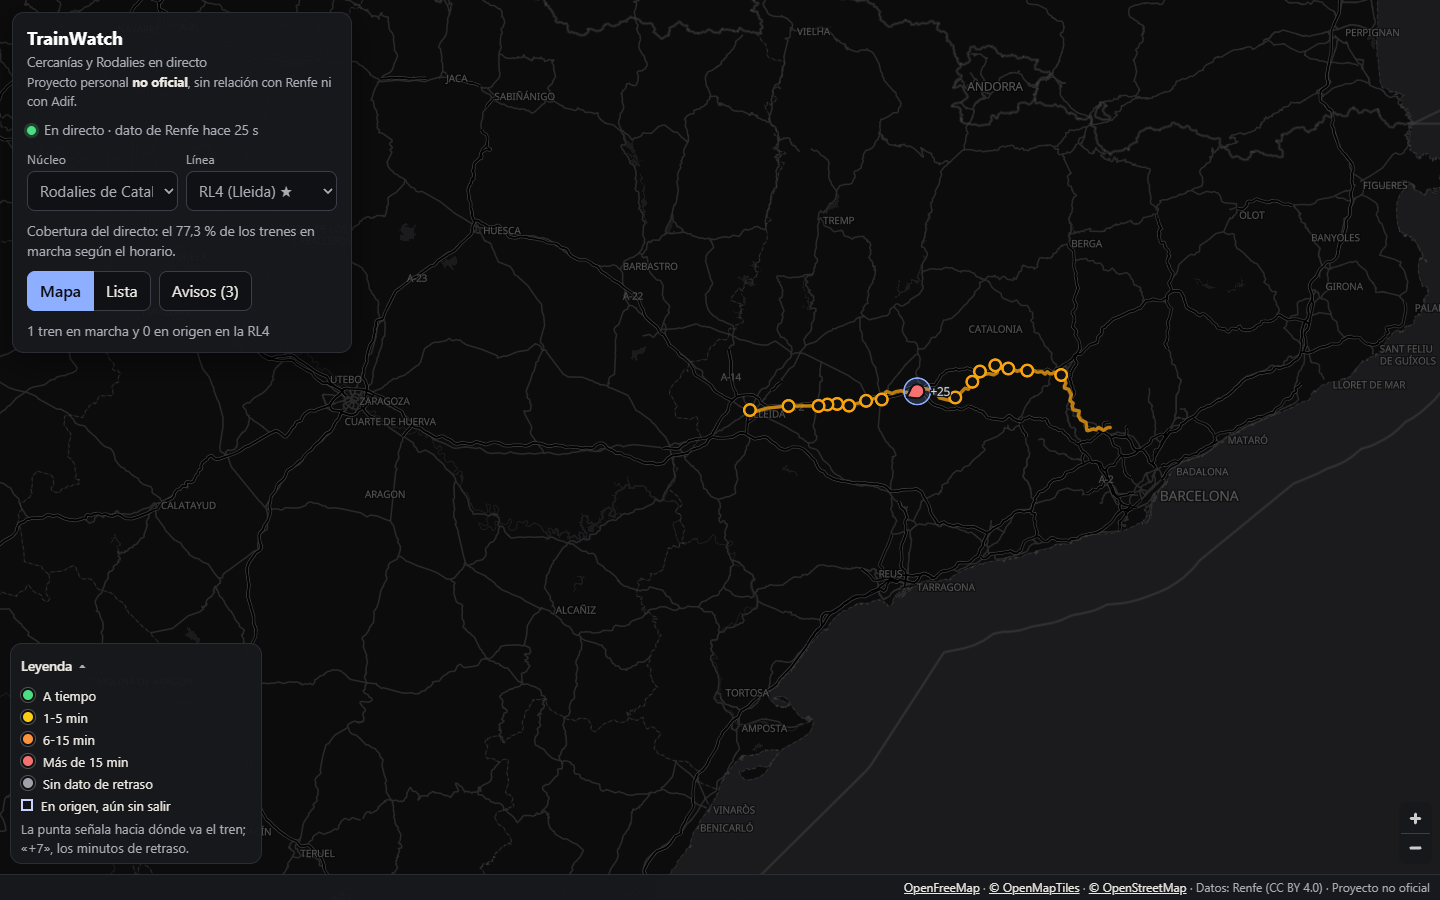
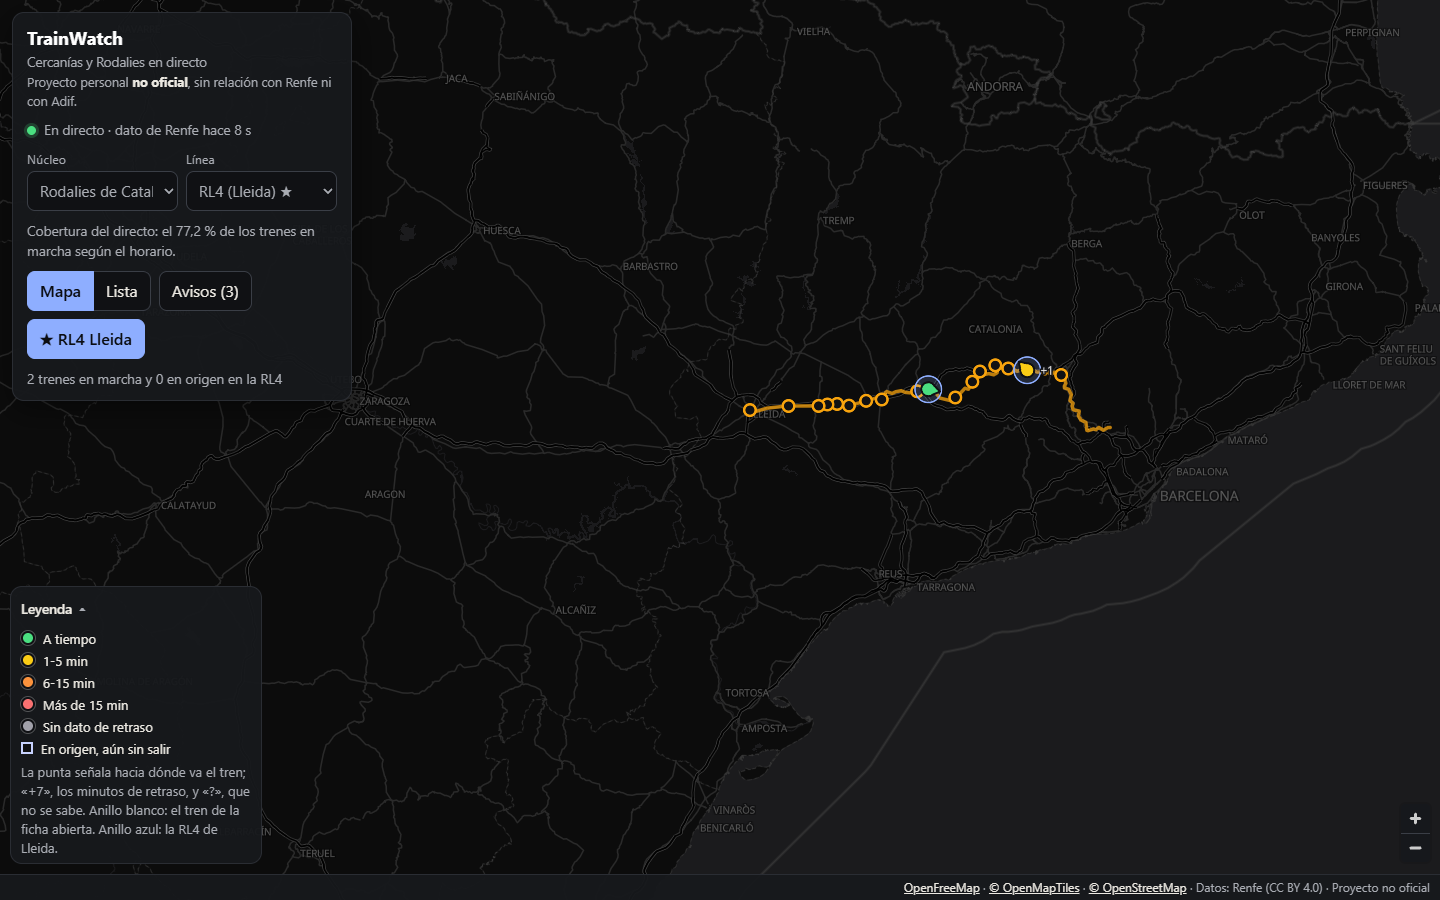
Quita de la CSP lo que no hace falta, ajusta la hoja del móvil, añade las pruebas que faltaban y renueva las capturas

diff --git a/frontend/src/componentes/textos.test.ts b/frontend/src/componentes/textos.test.ts
@@ -1,0 +1,54 @@
+import { describe, expect, it } from 'vitest';
+import type { Directo } from '../directo/useDirecto';
+import { anuncio, textoEstadoDatos } from './textos';
+
+const T0 = 1_000_000;
+
+function directo(cambios: Partial<Directo> = {}): Directo {
+  return {
+    trenes: new Map(),
+    recibido: T0,
+    antiguedadS: 10,
+    antiguedadEn: T0,
+    conexion: { tipo: 'abierta' },
+    reintentoHasta: null,
+    cargado: true,
+    ...cambios,
+  };
+}
+
+describe('estado de los datos', () => {
+  it('si no llega nada, la antigüedad crece con el reloj y a los 2 min avisa', () => {
+    const d = directo();
+    expect(textoEstadoDatos(d, T0)).toEqual({ texto: 'En directo · dato de Renfe hace 10 s', aviso: false });
+    expect(textoEstadoDatos(d, T0 + 100_000)).toEqual({ texto: 'En directo · dato de Renfe hace 1 min', aviso: false });
+    // 10 s + 3 min sin ningún evento: el directo está parado.
+    expect(textoEstadoDatos(d, T0 + 180_000)).toEqual({
+      texto: 'Datos de hace 3 min: el directo está parado',
+      aviso: true,
+    });
+    expect(anuncio(d, T0 + 180_000)).toBe('Los datos en directo están parados.');
+  });
+
+  it('cuenta hacia atrás hasta el próximo intento', () => {
+    const d = directo({
+      conexion: { tipo: 'reintentando', intento: 3, esperaMs: 8000 },
+      reintentoHasta: T0 + 8000,
+    });
+    expect(textoEstadoDatos(d, T0).texto).toBe('Sin conexión con el directo: se reintenta en 8 s. Datos de hace 10 s');
+    expect(textoEstadoDatos(d, T0 + 5500).texto).toMatch(/^Sin conexión con el directo: se reintenta en 3 s/);
+    expect(anuncio(d, T0)).toBe('Sin conexión con el directo.');
+  });
+
+  it('anuncia «Reconectando» y no «En directo» mientras se vuelve a conectar', () => {
+    const d = directo({ conexion: { tipo: 'conectando' } });
+    expect(anuncio(d, T0)).toBe('Reconectando con el directo.');
+    expect(textoEstadoDatos(d, T0).texto).toBe('Reconectando… · dato de Renfe hace 10 s');
+  });
+
+  it('antes de la primera instantánea dice que está conectando', () => {
+    const d = directo({ cargado: false, antiguedadS: null, antiguedadEn: null, conexion: { tipo: 'conectando' } });
+    expect(textoEstadoDatos(d, T0)).toEqual({ texto: 'Conectando con el directo…', aviso: false });
+    expect(anuncio(d, T0)).toBe('Conectando con el directo.');
+  });
+});

diff --git a/frontend/src/App.test.tsx b/frontend/src/App.test.tsx
@@ -157,6 +157,41 @@ describe('App', () => {
     expect(within(hoja).getAllByRole('listitem')).toHaveLength(3);
   });
 
+  it('cambiar de línea con los avisos abiertos cambia su título sin quitarle el foco al selector', async () => {
+    prepararApi();
+    await conDirecto();
+    fireEvent.click(await screen.findByRole('button', { name: 'Avisos (3)' }));
+    await screen.findByRole('complementary', { name: 'Avisos de Rodalies de Catalunya' });
+    const selector = screen.getByRole('combobox', { name: 'Línea' });
+    selector.focus();
+    fireEvent.change(selector, { target: { value: 'R13' } });
+    expect(await screen.findByRole('complementary', { name: 'Avisos de la R13' })).toBeInTheDocument();
+    expect(selector).toHaveFocus();
+  });
+
+  it('el botón de la RL4 se queda (pulsado) y no pierde el foco', async () => {
+    prepararApi();
+    await conDirecto();
+    const boton = screen.getByRole('button', { name: /RL4 Lleida/ });
+    expect(boton).toHaveAttribute('aria-pressed', 'false');
+    boton.focus();
+    fireEvent.click(boton);
+    expect(screen.getByRole('combobox', { name: 'Línea' })).toHaveValue('RL4');
+    expect(boton).toHaveAttribute('aria-pressed', 'true');
+    expect(boton).toHaveFocus();
+    fireEvent.click(boton);
+    expect(screen.getByRole('combobox', { name: 'Línea' })).toHaveValue('');
+  });
+
+  it('un núcleo de la URL que no existe vuelve a Rodalies', async () => {
+    prepararApi();
+    window.history.replaceState(null, '', '/?nucleo=999');
+    render(<App />);
+    await screen.findByRole('option', { name: 'Madrid' });
+    expect(screen.getByRole('combobox', { name: 'Núcleo' })).toHaveValue('51');
+    await waitFor(() => expect(FuenteFalsa.ultima().url).toBe('/api/directo?nucleo=51'));
+  });
+
   it('avisa con «datos de hace X min» si el directo se para', async () => {
     prepararApi();
     await conDirecto();

diff --git a/frontend/src/mapa/Mapa.tsx b/frontend/src/mapa/Mapa.tsx
@@ -31,6 +31,12 @@ const ESTILO_RESERVA = {
   layers: [{ id: 'fondo', type: 'background' as const, paint: { 'background-color': '#16181c' } }],
 };
 
+/** Cuánto del mapa tapa la hoja inferior del móvil (el 50 % de la altura de la ventana, desde abajo). */
+function hojaMovil(contenedor: HTMLElement): number {
+  const abajo = contenedor.getBoundingClientRect().bottom;
+  return Math.round(window.innerHeight * 0.5 - (window.innerHeight - abajo));
+}
+
 export interface PropsMapa {
   nucleo: Nucleo | null;
   trenes: readonly TrenMapa[];
@@ -163,7 +169,10 @@ export default function Mapa(props: PropsMapa) {
     m.easeTo({
       center: [tren.lon, tren.lat],
       zoom: Math.max(m.getZoom(), 11),
-      padding: ancho ? { top: 20, bottom: 40, left: 360, right: 410 } : { top: 20, bottom: 300, left: 20, right: 20 },
+      // En el móvil, la hoja ocupa la mitad de abajo de la pantalla (App.css): el tren va justo encima.
+      padding: ancho
+        ? { top: 20, bottom: 40, left: 360, right: 410 }
+        : { top: 20, bottom: Math.max(20, hojaMovil(m.getContainer()) + 20), left: 20, right: 20 },
       animate: !ultimas.current.reducirMovimiento,
       duration: 700,
     });

diff --git a/frontend/src/App.css b/frontend/src/App.css
@@ -539,13 +539,13 @@
     left: 0;
     right: 0;
     bottom: 0;
-    max-height: 62vh;
+    max-height: 50vh;
     border-radius: 16px 16px 0 0;
     box-shadow: 0 -8px 30px rgba(0, 0, 0, 0.5);
   }
   /* Que se pueda desplazar la lista por encima de la hoja. */
   .app--con-hoja .lista {
-    padding-bottom: 64vh;
+    padding-bottom: 52vh;
   }
 }
 

diff --git a/docs/informes/fase-5.md b/docs/informes/fase-5.md
@@ -1,6 +1,6 @@
 # Fase 5 · El mapa: informe
 
-**Fecha:** 20-11-2026. **Rama:** `fase-5-mapa` (sin fusionar: se cortó por límite de uso). **Resultado:** hecha salvo la fusión, la línea del diario y la repetición del e2e y las capturas tras las últimas correcciones.
+**Fecha:** 20 y 21-11-2026. **Rama:** `fase-5-mapa`. **Resultado:** hecha. El mapa enseña los trenes de cada núcleo moviéndose en directo, con su color por retraso, fichas, filtros y vista de lista; 48 pruebas de Vitest y 14 e2e en verde; probado contra la API de producción sin errores ni violaciones de la CSP. **Lighthouse en móvil no llega a 90 en rendimiento** (75 con la simulación por defecto, 80 con la ralentización de DevTools); las otras tres categorías, 100.
 
 ## 1. Especificación
 
@@ -11,26 +11,28 @@ Punto de partida: `docs/prompts/fase-5.md`. **Entra:** mapa MapLibre con OpenFre
 - `src/mapa/`: `Mapa.tsx` (MapLibre integrado con `useRef`/`useEffect`, carga diferida), `capaTrenes.ts` (capa separada tras la interfaz `CapaDeTrenes`, iconos dibujados en lienzo y girados con el rumbo, 30 fps), `interpolacion.ts` (lógica pura), `capaLinea.ts` (recorrido y estaciones de la línea filtrada), `estiloBase.ts` (estilo de OpenFreeMap aligerado y vías desde el zoom 8), `retraso.ts`.
 - `src/directo/`: `ConexionDirecto.ts` (SSE, reintento 2-60 s ±20 % tras un error HTTP, vigilante de 45 s) y `useDirecto.ts` (antigüedad con horas del servidor).
 - `src/componentes/`: panel, estado de los datos (región viva solo con cambios de estado), leyenda con texto y forma, lista, hoja con foco gestionado, fichas, avisos y `SinMapa` (si no hay WebGL, se pasa a la lista).
-- CSP de `_headers`: `tiles.openfreemap.org` en `connect-src` e `img-src`, `blob:` en `img-src` y `worker-src`. `vite preview` aplica `_headers` para probarla en local y en e2e.
+- CSP de `_headers`: `tiles.openfreemap.org` solo en `connect-src` y `blob:` en `img-src`; `worker-src 'self'`. El encargo proponía también `blob:` en `worker-src` y el proveedor en `img-src`: la revisión vio que no hacían falta, se quitaron y se comprobó en el navegador con el mapa real (sin violaciones). `vite preview` aplica `_headers` para probarla en local y en e2e.
 - [ADR 0022](../adr/0022-maplibre-sin-adaptador-y-sin-libreria-de-datos.md): `maplibre-gl` 6.17.0 sin `react-map-gl` ni TanStack Query; `@playwright/test` 1.65.1 de desarrollo.
 
 ## 3. Cifras
 
-- **Vitest:** 41 pruebas en verde (antes, 13): colores y contraste, interpolación, reconexión (503, espera creciente, vigilante), aplicación con Testing Library.
-- **Playwright:** 14 de 14 (7 casos × escritorio y móvil) contra la build de producción con su CSP y la API simulada (`e2e/api-simulada.mjs`): carga sin errores ni violaciones de CSP, movimiento continuo, movimiento reducido, clic en un tren, lista con teclado, filtro y RL4, recuperación tras 503. **Pendiente de repetir** tras las correcciones de la revisión (la RL4 pasó a ser un botón con `aria-pressed`).
+- **Vitest:** **48 pruebas** en verde (antes, 13): colores y contraste, interpolación, reconexión (503, espera creciente, vigilante), textos del estado de los datos (la antigüedad crece con el reloj, cuenta atrás del reintento) y la aplicación con Testing Library (fichas, foco, Escape, RL4, filtro, núcleo inexistente, Bilbao «sin datos en directo»). `npm run lint` y `npm run build`, sin avisos.
+- **Playwright:** **14 de 14** (7 casos × escritorio 1440 px y móvil Pixel 7) contra la build de producción con su CSP y la API simulada (`e2e/api-simulada.mjs`, con los JSON de `docs/api/` y un SSE falso que mueve un tren cada segundo): carga sin errores ni violaciones de CSP, movimiento continuo (al menos 5 posiciones distintas en 1,5 s), movimiento reducido (como mucho 3), clic en un tren y paso a una estación, lista entera con el teclado (enlace para saltar, Intro, Escape y foco devuelto), filtro y RL4, recuperación tras un 503. Repetido tras todas las correcciones.
 - **Lighthouse móvil** (13.6.0, build de producción contra la API real): simulación por defecto **75 / 100 / 100 / 100** (rendimiento, accesibilidad, buenas prácticas, SEO); con ralentización aplicada de DevTools, **80 / 100 / 100 / 100**. FCP y LCP 0,8 s, CLS 0. **Lo que lo frena:** el TBT (1,3-1,4 s simulado; 470 ms aplicado). Es una tarea de ~1 s de MapLibre en el primer fotograma: compila y enlaza 10 programas WebGL (~207 ms con GPU real, que la simulación multiplica por 4). Quitar capas del estilo base no reduce el número de programas. No se llegó a 90 en rendimiento.
-- **Datos reales** (build local contra `trainwatch-api.ivanchesa.com`, 20-11 ~21:49): 60 trenes en marcha pintados en Rodalies; 40 se movieron en 20 s, ~460 m de media, en 16 de cada 19 segundos; sin errores en la consola ni violaciones de la CSP con el estilo, las teselas y el sprite reales. Capturas en `docs/capturas/fase-5/` (1440 y 375 px).
+- **Datos reales** (build local con la CSP de producción contra `trainwatch-api.ivanchesa.com`, `scripts/capturas.mjs`): el 20-11 a las 21:49, 60 trenes en marcha pintados en Rodalies, de los que 40 se movieron en 20 s (~460 m de media); el 21-11 a las 12:20, 47 y 30 (~420 m). Los que no se mueven están parados en una estación o tienen la posición del feed. Sin errores en la consola ni violaciones de la CSP con el estilo, las teselas, el sprite y las letras reales, también a zoom 11. Capturas en `docs/capturas/fase-5/` (1440 y 375 px: mapa, lista, ficha del tren y la RL4).
 
 ## 4. Revisión independiente
 
-Un subagente sin contexto revisó el diff con la especificación (15 hallazgos). Corregido: ErrorBoundary del mapa con paso a la lista (alta); estilo de reserva si OpenFreeMap no carga (alta); foco de la hoja solo al cambiar lo que enseña; botón RL4 que ya no desaparece; anuncio «Reconectando»; núcleo inexistente en la URL; la duración del movimiento solo se mide con eventos del SSE; mapa oculto con `visibility` para encuadrar bien; «?» en los trenes sin dato y anillos en la leyenda; relleno de la lista bajo la hoja en el móvil; «Datos de hace…» y cuenta atrás del reintento; lienzo normal si no hay `OffscreenCanvas`. **Se deja:** el e2e de CSP usa un estilo mínimo (la CSP con el mapa real se comprobó con `scripts/capturas.mjs`); `worker-src blob:` e `img-src https://tiles.openfreemap.org` podrían sobrar (el revisor lo dedujo leyendo MapLibre; falta confirmarlo en el navegador); faltan pruebas del foco con el título cambiando y de la antigüedad creciendo con el reloj.
+Un subagente sin contexto revisó el diff con la especificación (15 hallazgos). Corregido (con prueba donde se puede): ErrorBoundary del mapa con paso a la lista (alta); estilo de reserva si OpenFreeMap no carga (alta); foco de la hoja solo al cambiar lo que enseña; botón RL4 que ya no desaparece; anuncio «Reconectando»; núcleo inexistente en la URL; la duración del movimiento solo se mide con eventos del SSE; mapa oculto con `visibility` para encuadrar bien; «?» en los trenes sin dato y anillos en la leyenda; relleno de la lista bajo la hoja en el móvil; «Datos de hace…» y cuenta atrás del reintento; lienzo normal si no hay `OffscreenCanvas`. `worker-src blob:` e `img-src https://tiles.openfreemap.org` sobraban: quitados y comprobado en el navegador. Las pruebas que faltaban (foco con el título cambiando, foco del botón RL4, antigüedad que crece con el reloj, cuenta atrás) están añadidas. **Se deja:** el e2e usa un estilo mínimo en lugar del de OpenFreeMap, para no depender de la red; la CSP con el mapa real la comprueba `scripts/capturas.mjs`, que se ejecuta a mano.
 
-## 5. Qué queda
+Además, tras ver las capturas: en el móvil la hoja inferior baja al 50 % de la altura y, al abrir la ficha, el mapa deja el tren encima de la hoja.
 
-1. Repetir `npm run e2e` y `node scripts/capturas.mjs` con las correcciones.
-2. Fusión `--no-ff` en `main` y línea en `DIARIO.md`.
-3. Rendimiento de Lighthouse ≥ 90: no alcanzado (75-80) por el coste de arrancar WebGL.
-4. El e2e no está en la CI (necesita los navegadores de Playwright); no se tocaron los workflows.
+## 5. Qué quedó fuera
+
+1. **Lighthouse ≥ 90 en rendimiento:** no se alcanza (75-80) por el coste de arrancar WebGL. Se probó a aligerar el estilo base (de 47 a 26 capas): baja algo el trabajo, pero no el número de programas que compila MapLibre.
+2. **El e2e no está en la CI:** necesita los navegadores de Playwright, y los workflows quedan fuera de esta fase. Para añadirlo: un paso `npx playwright install --with-deps chromium` y `npm run e2e` en el trabajo del frontend de `ci.yml`.
+3. **La vista 3D** (la capa de trenes ya está separada detrás de `CapaDeTrenes`), el movimiento siguiendo la vía y un buscador de estaciones.
+4. Lo que es de otras fases: las estadísticas (fase 6) y la página de cada línea.
 
 ## 6. Qué cambiaría del plan
 

diff --git a/docs/adr/0022-maplibre-sin-adaptador-y-sin-libreria-de-datos.md b/docs/adr/0022-maplibre-sin-adaptador-y-sin-libreria-de-datos.md
@@ -17,7 +17,7 @@ La fase 5 pinta los trenes en directo sobre un mapa en la web de React 19 (ADR 0
 3. **Sin TanStack Query.** Las peticiones REST son cinco (núcleos, avisos, ficha del tren, ficha de la estación y línea), sin escrituras ni paginación ni caché compartida entre pantallas. Basta un gancho de 40 líneas (`useConsulta`): pide al cambiar la clave, cancela con `AbortController` la anterior y, si se pide, refresca cada X s sin borrar lo que ya enseña. Lo que cambia de verdad (los trenes) llega por SSE, que TanStack Query no gestiona. Si la fase 6 trae muchas pantallas con datos compartidos, se reconsidera.
 4. **Mapa base de OpenFreeMap** (`https://tiles.openfreemap.org/styles/dark`): gratuito, sin clave ni registro, datos de OpenStreetMap con el esquema de OpenMapTiles. Las citas («OpenFreeMap», «© OpenMapTiles», «© OpenStreetMap», «Datos: Renfe (CC BY 4.0)» y «Proyecto no oficial») van en un pie siempre visible, también en el móvil, en vez del control de atribución de MapLibre, que en pantallas pequeñas se pliega.
 5. **El worker de MapLibre 6** es un módulo aparte (`maplibre-gl-worker.mjs`). MapLibre lo busca junto a su propio fichero, y Vite lo empaqueta en otro sitio, así que se importa con `?url` y se pasa a `setWorkerUrl`: Vite lo publica como un fichero más **del mismo origen**.
-6. **CSP** (`_headers`), lo justo: `https://tiles.openfreemap.org` en `connect-src` (MapLibre pide estilo, teselas, sprites y letras con `fetch`) y en `img-src` (teselas de relieve); `blob:` en `img-src` y en `worker-src` (además de `'self'`). Sin `unsafe-inline` ni `unsafe-eval`. Lo comprueban las pruebas e2e, que corren contra la build con estas cabeceras (`vite preview` las lee de `_headers`).
+6. **CSP** (`_headers`), lo justo: `https://tiles.openfreemap.org` solo en `connect-src`, porque MapLibre pide con `fetch` el estilo, las teselas, el sprite y las letras, y decodifica las imágenes desde `blob:` (`img-src 'self' data: blob:`). El worker es del mismo origen, así que basta `worker-src 'self'`: MapLibre 6 solo lo envuelve en un `blob:` cuando es de otro origen. El encargo proponía además `blob:` en `worker-src` y el proveedor en `img-src`; se probaron sin ellos (las pruebas e2e y la web contra la API y los mapas reales, sin violaciones) y se quitaron. Sin `unsafe-inline` ni `unsafe-eval`. Lo comprueban las pruebas e2e, que corren contra la build con estas cabeceras (`vite preview` las lee de `_headers`).
 7. **Carga diferida:** `Mapa` va con `React.lazy`, en su propio trozo (~1 MB sin comprimir). La interfaz (panel, estado del directo, lista) se pinta antes.
 8. **Pruebas:** `@playwright/test` 1.65.1 (solo de desarrollo) para el e2e. Lighthouse se ejecuta con `npx lighthouse@13.6.0` (fijado) sin añadirlo al `package.json`: pesa mucho para la CI y solo se usa a mano.
 
